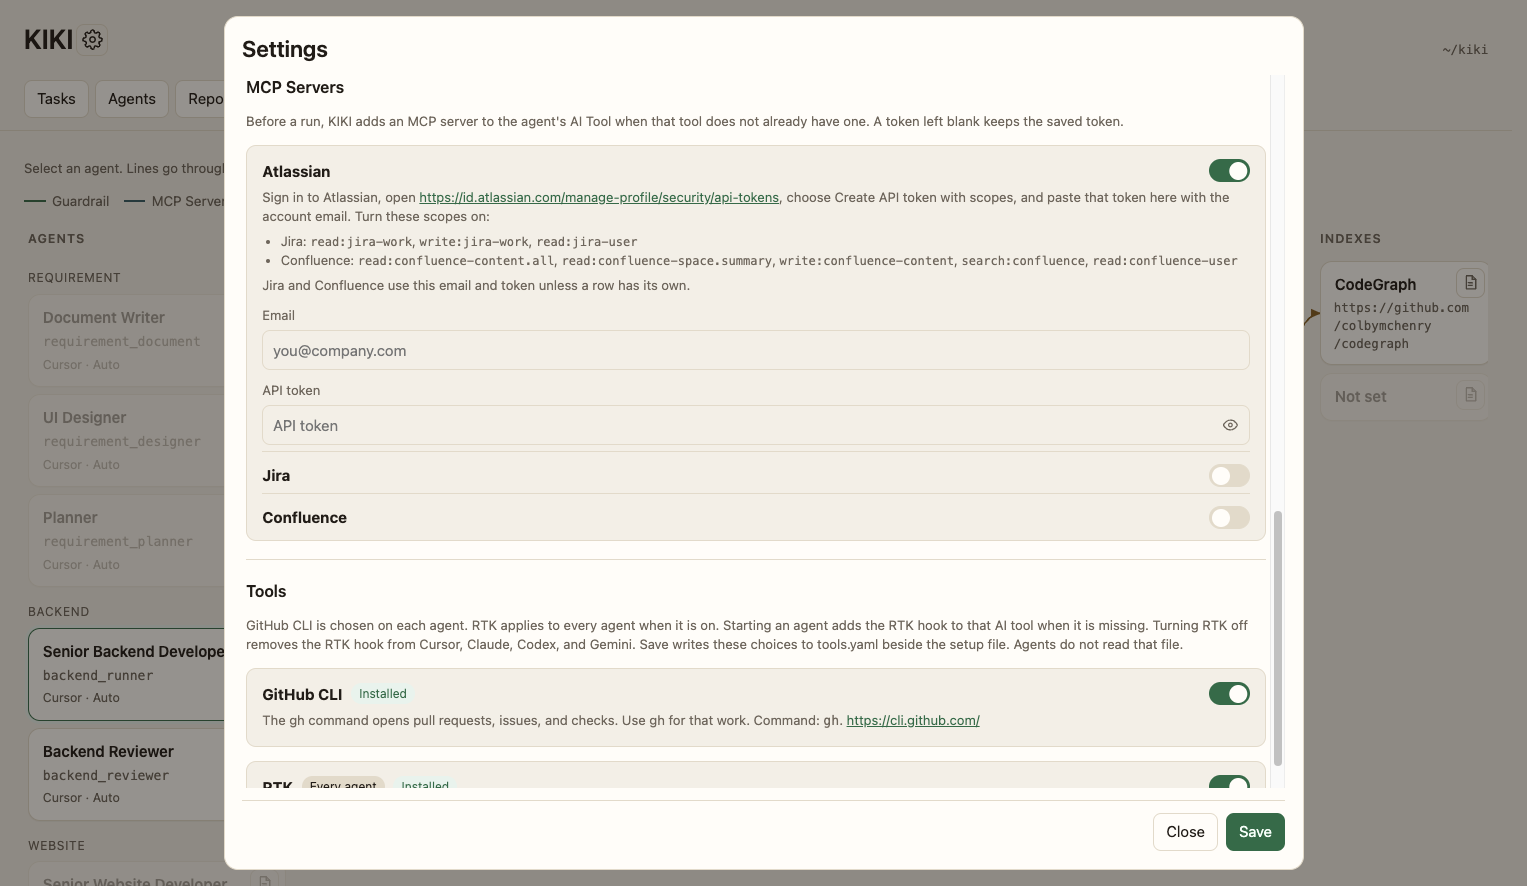
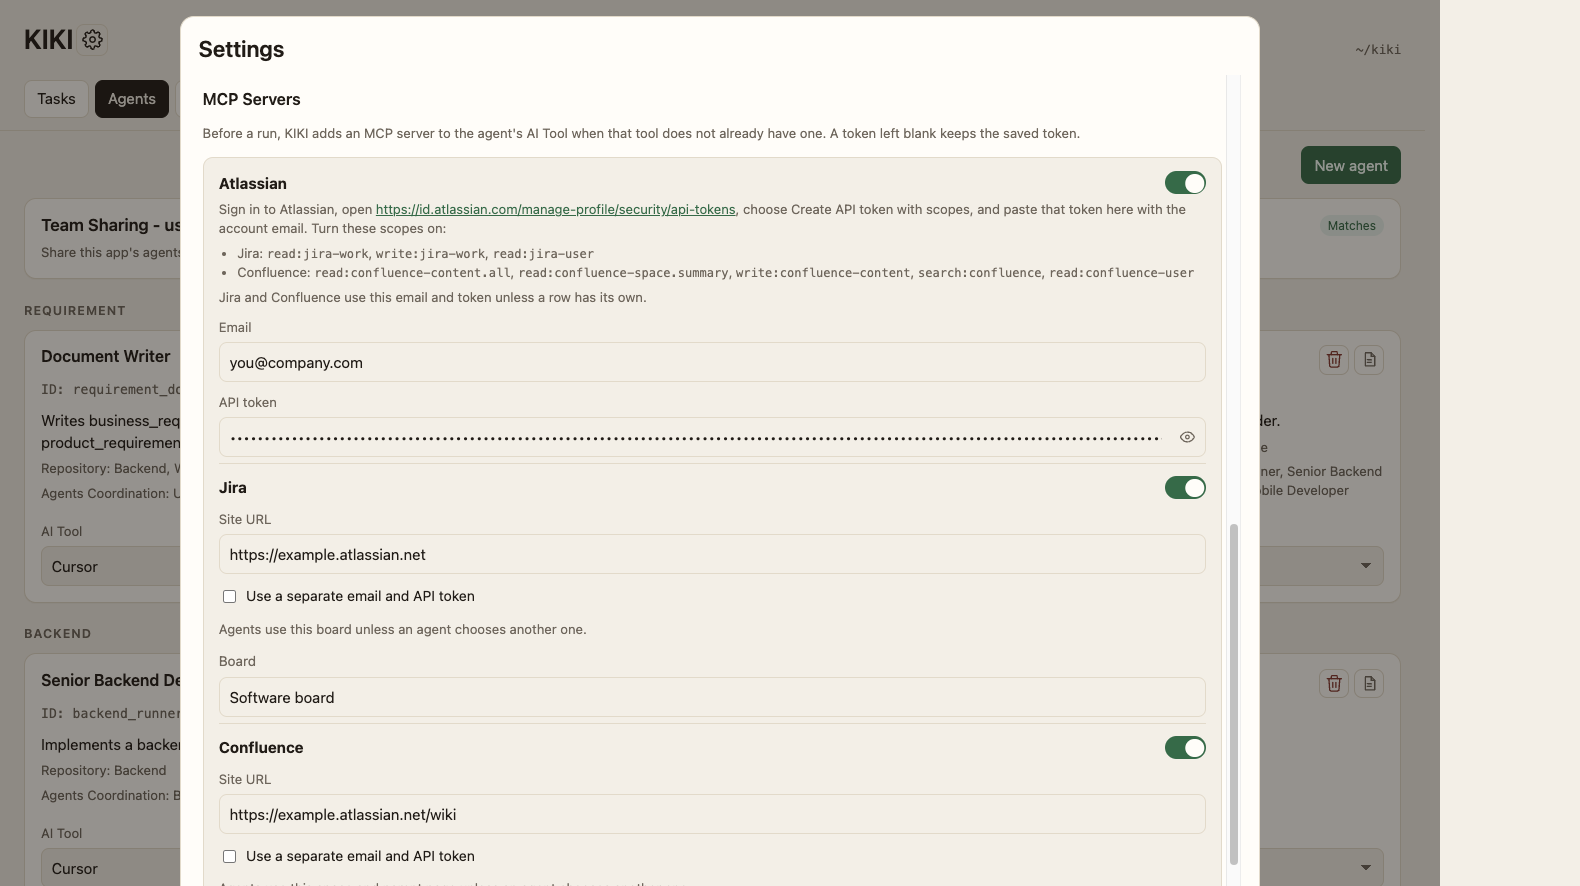
chore: update README.md

Changed region(s): [[0.0, 0.0, 1.0, 1.0], [0.0, 0.0305, 0.0616, 0.0609]]

diff --git a/README.md b/README.md
@@ -10,17 +10,17 @@ You describe each agent once: its role, the repositories it may touch, the other
 
 | Area | What you get |
 | --- | --- |
-| **Agents** | One markdown file per agent, grouped by category. Each agent has its own AI tool (Cursor, Claude, Codex, or Gemini), model, and prompt. Roles for requirement, backend, website, and mobile work are included. |
+| **Agents** | One markdown file per agent, grouped by category. Each agent has its own AI tool (Cursor, Claude, Codex, or Gemini), model, and prompt. You can add an agent or delete one. Roles for requirement, backend, website, and mobile work are included. |
 | **Agent to agent** | **Agents Coordination** says which agents an agent works with. Each link has messages: when to send, what to send, what the other agent reports back, and how many back-and-forth loops are allowed. |
 | **Agent to repository** | Each agent is given the repositories it may open, a guide file to follow in each one (`AGENTS.md` by default), a note on what it does there, and an optional read-only flag. |
-| **MCP Servers** | Set up an MCP server once in Settings (Atlassian: Jira and Confluence). Then choose it per agent, with a note on how that agent should use it. KIKI adds the server to the agent's AI tool before a run. |
+| **MCP Servers** | Set up Atlassian once in Settings. Jira and Confluence can share one email and API token, or each can use its own. Turn Jira, Confluence, or both on for an agent, with a note on how that agent should use it. KIKI adds those servers to the agent's AI tool before a run. |
 | **Tools** | CLI tools turned on in Settings: GitHub CLI (chosen per agent) and RTK (applies to every agent). |
-| **Repositories** | Document, Backend, Website, and Mobile repositories. Clone each one through Git, or point KIKI at an existing folder. A code repository can be an Nx monorepo, and you pick which projects the agents work on. |
-| **Team Sharing** | Share agent and repository setups through one shared folder. You decide how that folder is synchronized between team members' computers (Dropbox, iCloud Drive, a network drive, a git repository, or anything else). KIKI compares, shows the diff, and copies in either direction. |
+| **Repositories** | Document, Backend, Website, and Mobile to start. Add, rename, or delete a repository. Clone one through Git, or point KIKI at an existing folder. A code repository can be an Nx monorepo, and you pick which projects the agents work on. Deleting a repository leaves its folder on disk. |
+| **Team Sharing** | Share agent and repository setups through one shared folder. You decide how that folder is synchronized between team members' computers (Dropbox, iCloud Drive, a network drive, a git repository, or anything else). KIKI compares, and you choose which agents and repositories to copy. |
 | **Indexes** | One-click setup of [CodeGraph](https://github.com/colbymchenry/codegraph) and [Obsidian](https://obsidian.md/) indexes for a repository. Agents query the index first, so they read less code and spend fewer tokens. |
 | **RTK** | Turns on [RTK](https://github.com/rtk-ai/rtk) for Cursor, Claude, Codex, and Gemini. RTK rewrites shell commands so their output is shorter, which cuts input tokens. |
 | **Information providers and CLIs** | Connects to Atlassian (Jira, Confluence) through MCP, and to the GitHub CLI, the RTK CLI, and the Cursor, Claude, Codex, and Gemini CLIs. Settings shows which are installed. |
-| **Tasks** | Create tasks, group them under a group (a Jira epic when Jira is on), pick the agents, and send them to the orchestrator. The board tracks each agent from pending to completed. |
+| **Tasks** | Create tasks, group them under a group (a Jira epic when Jira is on), pick the agents and the AI tool for that start, and send them to the orchestrator. An agent also starts the agents it coordinates with; those wait for a request. The board tracks each agent from pending to completed. |
 | **Agent Orchestration** | Agents are started and coordinated through Orca (the `orca` CLI). Orca is the only orchestrator supported today. |
 | **Guardrails** | A hook on each AI tool checks every prompt, command, file, MCP call, and agent call against what that agent was given. It blocks anything else. |
 | **Topology** | A map of each agent, the guardrail, MCP servers, tools, repositories, and indexes it may use. |
@@ -29,49 +29,67 @@ You describe each agent once: its role, the repositories it may touch, the other
 
 ### Agents
 
-Every agent is a card with its AI tool and model. The **Team Sharing** card at the top compares this app's agents with your team folder.
+Every agent is a card with its AI tool and model. **New agent** adds one. Click a card to edit it. The trash icon deletes it, and the document icon shows the prompt KIKI sends. The **Team Sharing** card at the top compares this app's agents with your team folder.
 
 ![Agents](assets/screenshots/agents.png)
 
-Edit an agent to set its prompt, repositories, coordination with other agents, MCP servers, and tools.
+The editor has five tabs.
 
-![Agents Coordination](assets/screenshots/agent-coordination.png)
+**Prompt** is Role, Input, Output, Startup behavior, and Principles. KIKI joins those fields into the prompt sent when the agent starts. **Preview** reads a field as markdown. **Rewrite by AI** rewrites it with the AI tool and model chosen under **Generate text** in Settings.
+
+![Prompt](assets/screenshots/agent-prompt.png)
+
+**Repositories** turns on the folders this agent may open, then sets the guide file and what the agent does there.
 
 ![Agent repositories](assets/screenshots/agent-repositories.png)
 
+**Agents Coordination** turns on the agents this one works with, then adds messages. A message has **Send when** and **What to send**. Both are required. A third field says what the other agent reports back.
+
+![Agents Coordination](assets/screenshots/agent-coordination.png)
+
+**Connections** turns on the MCP servers and CLI tools for this agent.
+
+![Connections](assets/screenshots/agent-connections.png)
+
+**Topology** draws what this agent may reach. The same map is on the Topology tab.
+
 ### Repositories and indexes
 
-Each repository has a folder and an optional index. Turn the index on to set up CodeGraph or Obsidian in that folder.
+Each repository has a name, a folder, and an optional index. **Add repository** creates one. Rename changes the name and keeps the id. Delete removes it from KIKI and leaves the folder on disk. Turn the index on to set up CodeGraph or Obsidian. **Save** writes folder paths and the Nx projects you selected.
 
 ![Repositories](assets/screenshots/repositories.png)
 
 ### Tasks
 
-Choose the agents for a task. An agent also turns on the agents in its Agents Coordination, and those wait for a request before they work.
+Turn on the agents for a task. An agent also turns on the agents in its Agents Coordination. Those are sub agents: they cannot be turned off on their own, they start first, and they wait for a request. The AI tool and model on a turned-on agent are what this start uses.
 
 ![Start a task](assets/screenshots/task-start.png)
 
 ### Topology
 
-Select an agent to see what it may reach. Lines go through the guardrail.
+Select an agent to see what it may reach. Lines go through the guardrail to MCP servers, tools, repositories, coordinating agents, and indexes.
 
 ![Topology](assets/screenshots/topology.png)
 
 ### Team Sharing
 
-Compare this app's agents and repositories with your own folder or with another member's folder, then copy in the direction you choose.
+Compare this app's agents and repositories with your own folder or with another member's folder. An arrow opens a list so you choose what to copy. Anything you leave unticked stays as it is.
 
 ![Team Sharing](assets/screenshots/team-sharing.png)
 
 ### Settings
 
-Settings holds the orchestrator, the team folder, guardrails, MCP servers, and tools (including RTK).
+Settings holds appearance, the workspace, the orchestrator, **Generate text**, the team folder, guardrails, MCP servers, and tools.
 
 ![Settings](assets/screenshots/settings.png)
 
+Atlassian covers Jira and Confluence. Jira has a site URL and a board. Confluence has a site URL, a space, and a parent page. Each one can use the shared email and token, or its own.
+
 ![MCP Servers](assets/screenshots/settings-mcp.png)
 
-![Tools and RTK](assets/screenshots/settings-tools.png)
+Guardrails apply to every agent. GitHub CLI is chosen per agent. RTK applies to every agent while it is on.
+
+![Guardrails and tools](assets/screenshots/settings-tools.png)
 
 ## Install and run
 
@@ -114,18 +132,20 @@ A typical first run, in order:
 
 Open Settings with the gear next to the title. Press **Save** to keep changes. **Close** discards them.
 
+- **Appearance** is Light, Dark, or System. It applies immediately and stays on this computer.
 - **Workspace** is a short id: a letter, then letters, digits, `_`, or `-`.
 - **Agent Orchestration** is Orca.
+- **Generate text** is the AI tool and model used by **Rewrite by AI**.
 - **Team folder**: see step 6.
-- **Guardrails**: leave on. KIKI installs the hook into Cursor, Claude, Codex, and Gemini when an agent starts.
-- **MCP Servers**: turn on Atlassian, then enter your email and an [Atlassian API token](https://id.atlassian.com/manage-profile/security/api-tokens). Turn on Jira, Confluence, or both, and pick a default board, space, and parent page. A token you leave blank keeps the saved one.
+- **Guardrails**: leave on. KIKI installs the hook into Cursor, Claude, Codex, and Gemini when an agent starts. When a repository has Nx projects selected, a file in another project is blocked.
+- **MCP Servers**: turn on Atlassian, then enter your email and an [Atlassian API token](https://id.atlassian.com/manage-profile/security/api-tokens). Turn on Jira, Confluence, or both. Jira needs a site URL and a board. Confluence needs a site URL, a space, and a parent page. **Use a separate email and API token** gives that product its own credentials. A token you leave blank keeps the saved one.
 - **Tools**: turn on GitHub CLI and RTK (see step 5).
 
 ### 2. Repositories
 
-Open the **Repositories** tab. KIKI keeps four repositories as folders next to the binary.
+Open the **Repositories** tab. The first run creates four repositories as folders next to the binary. **Add repository** creates another. Its name starts with a letter and uses letters, digits, spaces, hyphens, or underscores. The id comes from that name. Rename changes the displayed name and keeps the id. Delete removes the repository from KIKI. The folder on disk stays.
 
-| Folder | Kind | Used by |
+| Folder | Id | Used by the included roles |
 | --- | --- | --- |
 | `backend/` | backend | Backend developer and reviewer |
 | `website/` | website | Website developer and reviewer |
@@ -133,8 +153,9 @@ Open the **Repositories** tab. KIKI keeps four repositories as folders next to t
 | `docs/` | document | Document writer, UI designer, and planner |
 
 - **Browse** points a repository at another folder.
-- **Clone repository** fills an empty folder from a Git URL. Fill **Folder** to check out only that folder (plus files at the repository root). Commit, push, and pull then use that checkout.
+- **Clone repository from git** shows when the folder is empty. Fill **Folder** to check out only that folder (plus files at the repository root). Commit, push, and pull then use that checkout.
 - A repository can be one project or an Nx monorepo. Turn on “This repository is divided into services” when it is split into Nx projects. KIKI finds those projects from each `project.json` `name`. The ones you select are what agents for that repository may use. Agents confirm a project with `npx nx show projects`.
+- **Save** writes the folder paths and the selected projects. Add, rename, and delete apply on their own.
 
 ### 3. Indexes
 
@@ -147,23 +168,25 @@ On the same tab, turn **Index tool** on for a repository and choose CodeGraph or
 
 ### 4. Agents
 
-Open the **Agents** tab. Each card has an AI tool and a model. **Edit** opens the full setup:
+Open the **Agents** tab. Each card has an AI tool and a model. **New agent** adds one. Click a card to edit it. The trash icon deletes it.
 
-- **Prompt**: the role. Turn **Preview** on to read it as markdown.
+The editor tabs are:
+
+- **Prompt**: Role, Input, Output, Startup behavior, and Principles. KIKI joins them into the prompt. An input can be required, or it can have a default. **Preview** reads a field as markdown.
 - **Repositories**: turn a repository on, then set the guide file and what the agent does there. **Readonly** keeps that repository read-only for this agent.
 - **Agents Coordination**: turn on the agents this one works with, then add messages. A message has **Send when** (the condition) and **What to send** (the content). Both are required. A third field says what the other agent reports back. When it is empty, no report is requested. Once it has text, you can allow a back-and-forth exchange of up to 20 loops.
-- **MCP Servers**: the servers this agent may call, with a note on how to use each one.
-- **Tools**: the CLI tools this agent may run.
+- **Connections**: the MCP servers this agent may call, with a note on how to use each one, and the CLI tools it may run.
+- **Topology**: the map of what this agent may reach.
 - The **On** switch keeps the file but leaves the agent out of task starts.
 
-The sparkle button (**Rewrite by AI**) on a text field rewrites it with the AI tool and model chosen under **Generate text** in Settings. You see both versions side by side and press **Use** to accept.
+**Rewrite by AI** on a text field rewrites it with the AI tool and model chosen under **Generate text** in Settings. You see both versions side by side and press **Use** to accept.
 
 The document icon on a card shows the exact prompt KIKI sends to Orca.
 
 ### 5. MCP Servers, Tools, and RTK
 
-- An MCP server set up in Settings shows in each agent's **MCP Servers** section. Only the servers set on an agent can be used by that agent.
-- **GitHub CLI** is turned on per agent in **Tools**.
+- Jira and Confluence, once set up in Settings, show on each agent's **Connections** tab. Only the servers turned on for an agent can be used by that agent.
+- **GitHub CLI** is turned on per agent on that same tab.
 - **RTK** applies to every agent while it is on. Starting an agent adds the RTK hook to that agent's AI tool when it is missing. Turning RTK off removes the hook from Cursor, Claude, Codex, and Gemini.
 
 ### 6. Team Sharing
@@ -172,15 +195,15 @@ The document icon on a card shows the exact prompt KIKI sends to Orca.
 2. Enter your name. If the folder already has members, you can pick one or type a new name.
 3. Save. KIKI copies `.kiki/agents` to `<team>/<name>/agents` and the repository setup to `<team>/<name>/repos`.
 
-On the **Agents** tab, open the **Team Sharing** card. Pick a member, see which agents and repositories differ (open one to see the diff), and use the arrows to copy. Your own folder can be copied both ways. Another member's folder is copied into this app only. Each copy asks before it overwrites. If a copied agent uses a repository this app does not have, KIKI asks you to create it or map it to an existing one.
+On the **Agents** tab, open the **Team Sharing** card. Pick a member, see which agents and repositories differ (open one to see the diff), and use the arrows to copy. An arrow opens a list: tick what to include. Anything you leave unticked stays as it is. Your own folder can be copied both ways. Another member's folder is copied into this app only. Each copy asks before it overwrites. If a copied agent uses a repository this app does not have, KIKI asks you to create it or map it to an existing one.
 
 ### 7. Tasks
 
 On the **Tasks** tab:
 
 1. **New group** (optional) makes a group. When Jira is on, a Jira epic is created on the board chosen in Settings.
-2. **New task**: enter a name and a description, choose a group, and turn on the agents. An agent also turns on the agents in its Agents Coordination. Those wait for a request.
-3. **Start on Orca** shows the prompt each agent will receive. You can edit it. Nothing starts until you confirm. KIKI opens an Orca worktree for each repository an agent uses and launches the agent there.
+2. **New task**: enter a name and a description, choose a group, and turn on the agents. An agent also turns on the agents in its Agents Coordination. Those are sub agents. They cannot be turned off on their own, they start first, and they wait for a request. The AI tool and model shown on a turned-on agent are what this start uses.
+3. **Start on Orca** shows the prompt each agent will receive. You can edit it. Nothing starts until you confirm. KIKI opens an Orca worktree for each repository an agent uses and launches the agent there. Sub agents start before the agent that called them.
 4. The task moves to **In Progress**. Each agent shows as Pending, Doing, Waiting for review, or Completed. KIKI shows each agent's thinking and replies.
 5. When an agent asks a question or finishes, it is **Waiting for review**. Reply to it, or press **Approve** to mark it Completed.
 6. When every agent is Completed, the task moves to **Done**.
@@ -189,13 +212,13 @@ On the **Tasks** tab:
 
 ### 8. Topology
 
-The **Topology** tab draws what each agent may reach. Select an agent to highlight its guardrail, MCP servers, tools, repositories, coordinating agents, and indexes.
+The **Topology** tab draws what each agent may reach. Select an agent to highlight its guardrail, MCP servers, tools, repositories, coordinating agents, and indexes. The same map is the **Topology** tab inside that agent's editor.
 
 ## Reference
 
 ### Agent files
 
-Agents live in `.kiki/agents` next to the app, as `<category>/<id>.md`. The embedded roles in `src-tauri/crates/agents/` are copied there the first time the folder has no agent files. After that the files are yours: an update to an embedded role does not overwrite an agent you already have. To start again from the current embedded roles, move `.kiki/agents` away (keep a copy of agents you edited) and restart KIKI. The roles read their repositories, services, collaborators, MCP servers, and Jira board from the launch prompt, so they do not depend on any other config file. A file stores the id, name, description, whether the agent is on, AI tool, model, repositories (with guide file and note), `agents_coordination` (with `handoffs` as `when` and `send` pairs), MCP servers, tools, and the prompt.
+Agents live in `.kiki/agents` next to the app, as `<category>/<id>.md`. The embedded roles in `src-tauri/crates/agents/` are copied there the first time the folder has no agent files. After that the files are yours: an update to an embedded role does not overwrite an agent you already have. To start again from the current embedded roles, move `.kiki/agents` away (keep a copy of agents you edited) and restart KIKI. The roles read their repositories, services, collaborators, MCP servers, and Jira board from the launch prompt, so they do not depend on any other config file. A file stores the id, name, description, whether the agent is on, AI tool, model, repositories (with guide file and note), `agents_coordination` (with `handoffs` as `when` and `send` pairs), MCP servers, tools, and the prompt. The prompt body is the sections Role, Input, Output, Startup behavior, and Principles.
 
 | Group | Agents | Repository |
 | --- | --- | --- |
@@ -227,7 +250,7 @@ KIKI writes its files in `.kiki` beside the executable, not in the current worki
 | File | Contents |
 | --- | --- |
 | `.kiki/kiki.yaml` | Workspace, orchestrator, repository folders, selected services, and team folder. |
-| `.kiki/repos/` | One file per repository (`backend.yaml`, `website.yaml`, `mobile.yaml`, `document.yaml`) with its folder, services, and index. |
+| `.kiki/repos/` | One file per repository (`backend.yaml`, `website.yaml`, `mobile.yaml`, `document.yaml`, and one file for each repository you add) with its folder, services, and index. |
 | `.kiki/agents/` | Agent files, `<category>/<id>.md`. |
 | `.kiki/mcp.yaml` | MCP credentials for this computer. Agents do not read it. |
 | `.kiki/tools.yaml` | Tools and guardrails choices for this computer. Agents do not read it. |
